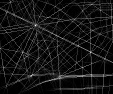
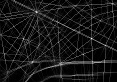
Update.

diff --git a/RoadFeatureExplorer/RoadSegmentationUtil.cpp b/RoadFeatureExplorer/RoadSegmentationUtil.cpp
@@ -747,7 +747,7 @@ void RoadSegmentationUtil::refineRadialCenterInScaled(RoadGraph& roads, const Po
  * OpenCVのHoughTransform関数で円を検知する。なければ、falseを返却する。
  */
 bool RoadSegmentationUtil::detectCircle(RoadGraph& roads, const Polygon2D& area, int roadType, RadialFeature& rf) {
-	cv::Mat img(500, 500, CV_8U);
+	cv::Mat img = cv::Mat::zeros(500, 500, CV_8U);
 	RoadEdgeIter ei, eend;
 	for (boost::tie(ei, eend) = edges(roads.graph); ei != eend; ++ei) {
 		if (!roads.graph[*ei]->valid) continue;
@@ -765,14 +765,38 @@ bool RoadSegmentationUtil::detectCircle(RoadGraph& roads, const Polygon2D& area,
 	cv::vector<cv::Vec3f> circles;
 	cv::HoughCircles(img, circles, CV_HOUGH_GRADIENT, 1, 150, 200, 22, 0, 80);
 
+	cv::Mat img2 = cv::Mat::zeros(500, 500, CV_8UC3);
+	for (boost::tie(ei, eend) = edges(roads.graph); ei != eend; ++ei) {
+		if (!roads.graph[*ei]->valid) continue;
+
+		for (int i = 0; i < roads.graph[*ei]->polyLine.size() - 1; ++i) {
+			QVector2D p1 = roads.graph[*ei]->polyLine[i] - rf.center + QVector2D(250, 250);
+			QVector2D p2 = roads.graph[*ei]->polyLine[i + 1] - rf.center + QVector2D(250, 250);
+
+			if (p1.x() < 0 || p1.x() >= 500 || p2.x() < 0 || p2.x() >= 500) continue;
+
+			cv::line(img2, cv::Point(p1.x(), p1.y()), cv::Point(p2.x(), p2.y()), cv::Scalar(64, 64, 64), 3);
+		}
+	}
+
 	for (int i = 0; i < circles.size(); i++) {
 		QVector2D center(circles[i][0], circles[i][1]);
 		int r = circles[i][2];
 
 		std::cout << "Circle: (" << center.x() << "," << center.y() << ") R: " << r << std::endl;
 
+		cv::circle(img2, cv::Point(center.x(), center.y()), r, cv::Scalar(0, 255, 255), 3);
+
 		if ((rf.center - QVector2D(250, 250)).lengthSquared() < r * r) return true;
 	}
+
+	cv::flip(img2, img2, 0);
+	cv::imwrite("circle_detection.jpg", img2);
+
+	cv::namedWindow("circles", 1);
+	cv::imshow("circles", img2);
+	cv::waitKey(0);
+
 
 	std::cout << "No circle detected" << std::endl;
 
